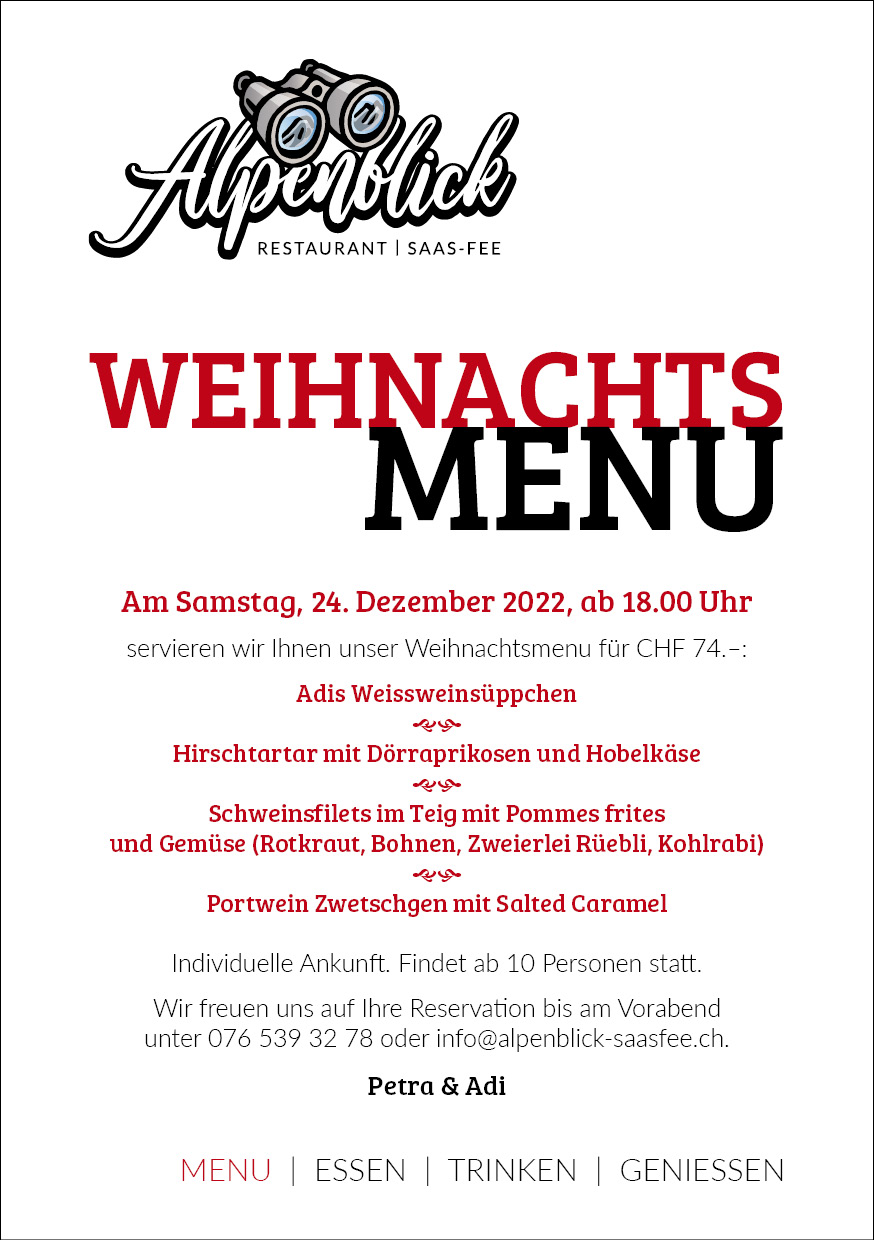
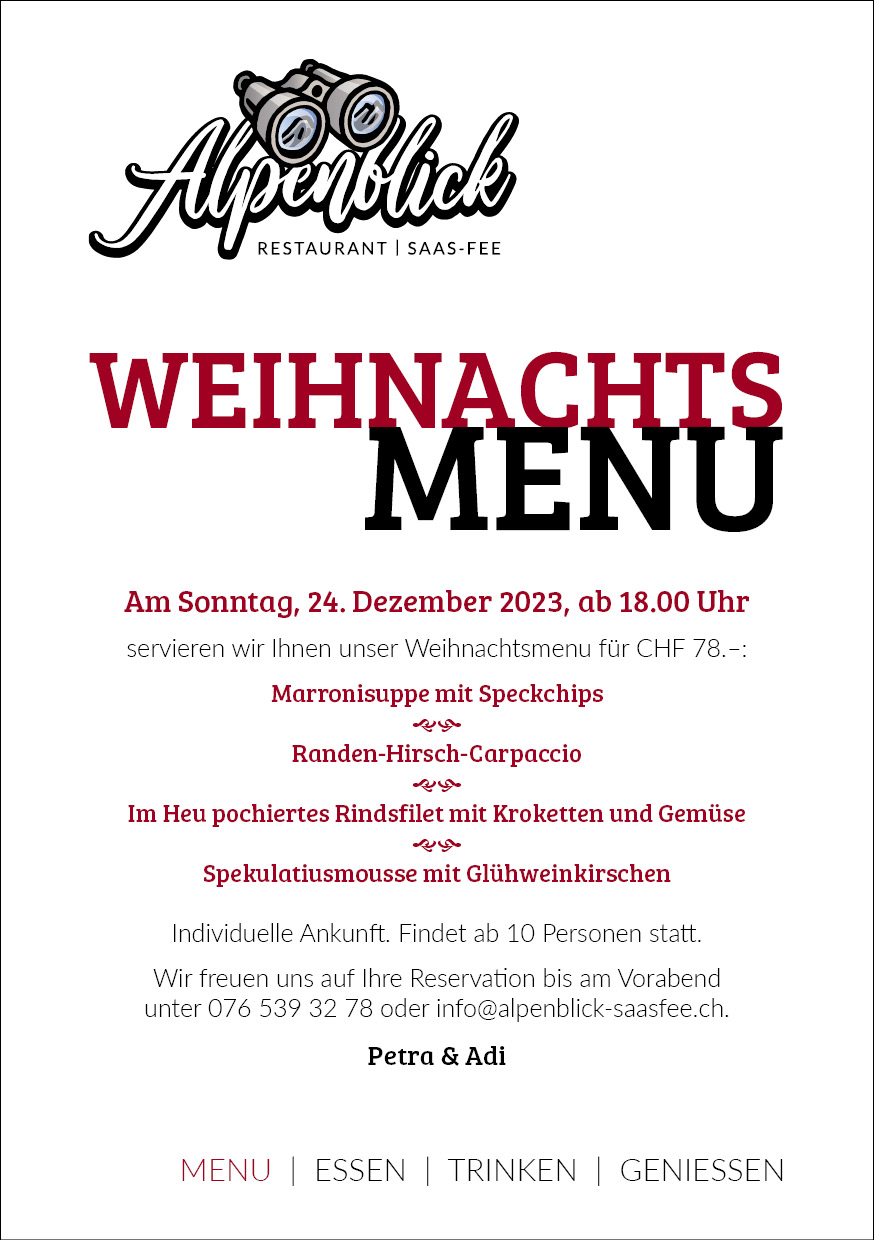
update homepage and gallery

Changed region(s): [[0.1236, 0.5516, 0.865, 0.8887], [0.0927, 0.2758, 0.8959, 0.3677], [0.1236, 0.4597, 0.865, 0.521]]

diff --git a/content/_index.md b/content/_index.md
@@ -24,9 +24,7 @@ Normaler Text zwischen Linien<br>
 
 ---
 
-**Saisonende und Start Wintersaison**<br>
-Wir geniessen mit euch noch bis und mit **Sonntag, 29. Oktober 2023** die Sommersaison. 
-
+**Start Wintersaison**<br>
 Am **Freitag, 15. Dezember 2023** freuen wir uns, mit euch in die Wintersaison starten zu dürfen!
 
 ---
@@ -35,11 +33,6 @@ Am **Freitag, 15. Dezember 2023** freuen wir uns, mit euch in die Wintersaison s
 
 
 <!-- 
-
-**Start Wintersaison**<br>
-Am **Freitag, 15. Dezember 2023** freuen wir uns, mit euch in die Wintersaison starten zu dürfen!
-
-
 
 **Saisonende und Start Sommersaison**<br>
 Wir geniessen mit euch noch bis und mit **Sonntag, 21. April 2024** die Wintersaison. 
@@ -51,15 +44,23 @@ Am **Donnerstag, XX. Juni 2024** freuen wir uns, mit euch in die Sommersaison 20
 **Start Sommersaison**<br>
 Wir freuen uns sehr, Sie nach der Zwischensaison ab **XXX, XX. Juni 2024** (bei schönem Wetter bereits am **XXX, XX. Juni 2024**) wieder bei uns im Restaurant Alpenblick begrüssen und verwöhnen zu dürfen!
 
+
+
+**Saisonende und Start Wintersaison**<br>
+Wir geniessen mit euch noch bis und mit **Sonntag, 29. Oktober 2023** die Sommersaison. 
+
+Am **Freitag, 15. Dezember 2023** freuen wir uns, mit euch in die Wintersaison starten zu dürfen!
+
 -->
 
 
 
 # Herzlich Willkommen ...
-![Alpenblick](images/Alpenblick_Ansicht_16.jpg "Alpenblick")
+![Alpenblick](images/Alpenblick_Herbst_2023_01.jpg "Alpenblick")
 <!-- 
 ![Alpenblick](images/Alpenblick_Ansicht_16.jpg "Alpenblick") -> WINTER
 ![Alpenblick](images/Alpenblick_Ansicht_13.jpg "Alpenblick") -> SOMMER
+![Alpenblick](images/Alpenblick_Herbst_2023_01.jpg "Alpenblick") -> HERBST
 ![Alpenblick](images/Alpenblick_Ansicht_Take-away.jpg "Alpenblick")
  -->
 
@@ -92,22 +93,18 @@ Unser kleines, aber feines <a href="images/Alpenblick_Flyer_Uebernachten_2022.jp
 
 ## Aktuelle Anlässe
 * Jeden Freitag: <a href="images/Alpenblick_Flyer_Freitag_Abend_Menu_2020.jpg" target="_blank"> Freitag Abend Überraschungsmenu</a>
-* Samstag, 28. Oktober 2023: <a href="images/Alpenblick_Flyer_Vollmond_Raclette_Plausch.jpg" target="_blank"> Vollmond Raclette Plausch</a>
-<!-- * Donnerstag, 08. Dezember 2022: <a href="images/Alpenblick_Flyer_Vollmond_Raclette_Plausch.jpg" target="_blank"> Vollmond Raclette Plausch</a> -->
-<!-- * Samstag, 24. Dezember 2022: <a href="images/Alpenblick_Flyer_Weihnachtsmenu.jpg" target="_blank"> Weihnachtsmenu</a> -->
-<!-- * Sonntag, 25. Dezember 2022: <a href="images/Alpenblick_Flyer_Christmas_Fondue.jpg" target="_blank"> Christmas Fondue</a> -->
-<!-- * Montag, 06. März 2023: <a href="images/Alpenblick_Flyer_Vollmond_Raclette_Plausch.jpg" target="_blank"> Vollmond Raclette Plausch</a> -->
+* Samstag, 24. Dezember 2022: <a href="images/Alpenblick_Flyer_Weihnachtsmenu.jpg" target="_blank"> Weihnachtsmenu</a>
+* Montag, 25. Dezember 2023: <a href="images/Alpenblick_Flyer_Christmas_Fondue.jpg" target="_blank"> Christmas Fondue</a>
+* Mittwoch, 27. Dezember 2023: <a href="images/Alpenblick_Flyer_Vollmond_Raclette_Plausch.jpg" target="_blank"> Vollmond Raclette Plausch</a>
+* Donnerstag, 25. Januar 2024: <a href="images/Alpenblick_Flyer_Vollmond_Raclette_Plausch.jpg" target="_blank"> Vollmond Raclette Plausch</a>
+* Samstag, 24. Februar 2024: <a href="images/Alpenblick_Flyer_Vollmond_Raclette_Plausch.jpg" target="_blank"> Vollmond Raclette Plausch</a>
+* Montag, 25. März 2024: <a href="images/Alpenblick_Flyer_Vollmond_Raclette_Plausch.jpg" target="_blank"> Vollmond Raclette Plausch</a>
 <!-- * **ZUSÄTZLICH:** Mittwoch, 08. März 2023: <a href="images/Alpenblick_Flyer_Vollmond_Raclette_Plausch.jpg" target="_blank"> Vollmond Raclette Plausch</a> -->
-<!-- * Donnerstag, 06. April 2023: <a href="images/Alpenblick_Flyer_Vollmond_Raclette_Plausch.jpg" target="_blank"> Vollmond Raclette Plausch</a> -->
 <!-- * Sonntag, 09. April 2023: <a href="images/Alpenblick_Flyer_Ostern_2023.jpg" target="_blank"> Alpenblick Ostereiersuche</a> -->
-<!-- * Montag, 03. Juli 2023: <a href="images/Alpenblick_Flyer_Vollmond_Raclette_Plausch.jpg" target="_blank"> Vollmond Raclette Plausch</a> -->
-<!-- * Montag, 31. Juli 2023: <a href="images/Alpenblick_Flyer_Vollmond_Raclette_Plausch.jpg" target="_blank"> Vollmond Raclette Plausch</a> -->
 <!-- * Sonntag, 10. Juli 2022: <a href="https://www.saas-fee.ch/de/events/top-events-im-sommer/saaser-gourmet-trail" target="_blank"> Saaser Gourmet-Trail</a> -->
 <!-- * Dienstag, 1. August 2023: <a href="images/Alpenblick_Flyer_1_August_2023.jpg" target="_blank"> Schweizer Nationalfeiertag</a> -->
 <!-- * Sonntag, 13. August 2023: <a href="images/Alpenblick_Flyer_Ziegenfest_2023.jpg" target="_blank"> Ziegenfest Saas--Fee</a> -->
 <!-- * 04. – 25. September 2022: <a href="https://www.saas-fee.ch/de/events/top-events-im-sommer/saaser-gaumengaudi" target="_blank"> Saaser Gaumengaudi</a> (-> <a href="images/Alpenblick_Flyer_Saaser_Gaumengaudi_2022.jpg" target="_blank">Unser Menü</a>) -->
-<!-- * Donnerstag, 31. August 2023: <a href="images/Alpenblick_Flyer_Vollmond_Raclette_Plausch.jpg" target="_blank"> Vollmond Raclette Plausch</a> -->
-<!-- * Freitag, 29. September 2023: <a href="images/Alpenblick_Flyer_Vollmond_Raclette_Plausch.jpg" target="_blank"> Vollmond Raclette Plausch</a> -->
 
 
 ## Auf Geschenksuche? Warum nicht ...

diff --git a/content/gallery.md b/content/gallery.md
@@ -4,6 +4,19 @@ menu:
   main:
     weight: 3
 ---
+### Herbst 2023
+![Übernachten](../images/Alpenblick_Herbst_2023_02.jpg "Übernachten")
+
+![Übernachten](../images/Alpenblick_Herbst_2023_03.jpg "Übernachten")
+
+![Übernachten](../images/Alpenblick_Herbst_2023_04.jpg "Übernachten")
+
+![Übernachten](../images/Alpenblick_Herbst_2023_04.jpg "Übernachten")
+
+![Übernachten](../images/Alpenblick_Herbst_2023_05.jpg "Übernachten")
+
+![Übernachten](../images/Alpenblick_Herbst_2023_06.jpg "Übernachten")
+
 ### Adventurly Bubble-Suite 2023
 ![Bubble-Suite](../images/Alpenblick_Bubble-Suite_01.jpg "Bubble-Suite")
 
